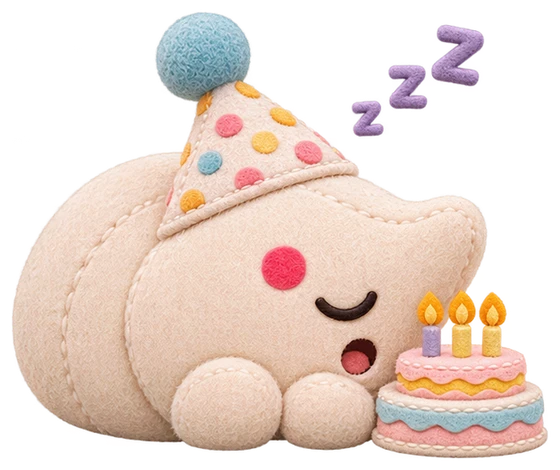
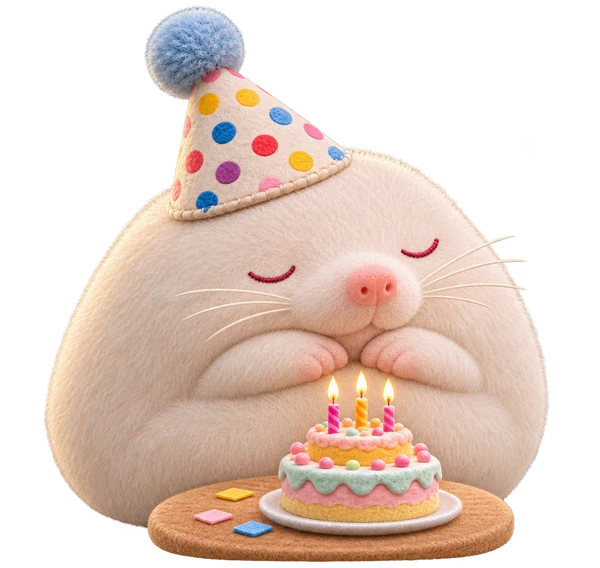
Redraw Olivia and align Sean encounter glow to her plush eye

diff --git a/src/character-fx.js b/src/character-fx.js
@@ -69,7 +69,7 @@ function layers(id) {
   if(id==='eden') extra += `${prop('crown','mfx-crown mfx-travel')}<div class="mfx-gold-aura"></div>`;
   if(id==='ian') extra += `${prop('flag','mfx-flag')}${prop('calculator','mfx-calculator mfx-travel')}<span class="mfx-roar" aria-hidden="true">으아아!</span>`;
   if(id==='kade') extra += `${prop('bone','mfx-bone mfx-swing')}${prop('shield','mfx-guard mfx-grow')}<span class="mfx-star-eyes">✴ ✴</span>`;
-  if(id==='olivia') extra += `${prop('cake','mfx-cake mfx-travel')}${prop('heart','mfx-hearts mfx-travel')}<span class="mfx-star-eyes">✴ ✴</span>`;
+  if(id==='olivia') extra += `${prop('cake','mfx-cake mfx-travel')}${prop('heart','mfx-hearts mfx-travel')}`;
   if(id==='sally') extra += `${pose('attack','sally-swing')}${pose('special','sally-drop')}${prop('hammer','mfx-sally-hammer mfx-swing')}${prop('diamond','mfx-sally-diamond mfx-drop')}`;
   if(id==='aiden') extra += `${pose('attack','aiden-bubbles')}${pose('special','aiden-summon')}<span class="mfx-aiden-flowers" aria-hidden="true">✿ ✿ ✿</span><span class="mfx-aiden-bubbles" aria-hidden="true">◌ ○ ◯ ○</span><img class="mfx-aiden-jellyfish" src="../assets/fx/aiden-jellyfish.webp" alt=""><span class="mfx-aiden-shock" aria-hidden="true">⚡ ✦ ⚡</span>`;
   if(id==='hailey') extra += `${prop('apple','mfx-silver-apple')}${prop('glasses','mfx-glasses')}${prop('apple','mfx-apple-throw mfx-travel')}${prop('tree','mfx-apple-tree mfx-grow')}`;
@@ -80,10 +80,14 @@ function layers(id) {
   if(!extra) extra += '<div class="mfx-magic" aria-hidden="true">✧ ✨ ✧</div>';
   return `<div class="mfx-layers" aria-hidden="true">${extra}<span class="mfx-attack-swish"></span></div>`;
 }
+function oliviaPose(mode, opponent) {
+  if (mode === 'idle') return 'nap';
+  return opponent === '션' ? 'sean' : opponent === '키미' ? 'kimi' : 'portrait';
+}
 export function createScene(mole, { mode = 'idle', opponentName = '', compact = false }={}) {
   const id = CHARACTER_FX[mole?.id] ? mole.id : 'generic';
   const fx=CHARACTER_FX[id];
-  const imgSrc = characterPortrait(mole);
+  const imgSrc = id === 'olivia' ? `assets/cards/olivia-${oliviaPose(mode, opponentName)}.webp` : characterPortrait(mole);
   const specialOpponent = opponentName === '션' ? 'sean' : opponentName === '키미' ? 'kimi' : startsWithTie(opponentName) ? 'tie' : 'other';
   return `<div class="mfx-scene mfx-${id} mfx-phase-${mode}${compact?' mfx-compact':''}" data-opponent="${specialOpponent}" style="--mfx-accent:${fx?.accent || '#e9b368'}">
       <div class="mfx-floor"></div><div class="mfx-sparkles" aria-hidden="true">✦　✧　✦</div>
@@ -120,6 +124,9 @@ export function animateCharacter(mole, {
   const mode = animationModeFor(mole, {phase, opponentName, diceSum, doubles, previousDiceSum});
   root.querySelector('.mfx-layers')?.remove();
   root.insertAdjacentHTML('beforeend',layers(mole.id));
+  const actor = root.querySelector(':scope > .mfx-base-pose');
+  const restingSrc = actor?.src;
+  if (actor && mole.id === 'olivia') actor.src = `../assets/cards/olivia-${oliviaPose(mode, opponentName)}.webp`;
   root.style.setProperty('--mfx-duration', `${duration}ms`);
   root.classList.remove('mfx-phase-idle', 'mfx-phase-attack', 'mfx-phase-special');
   root.dataset.opponent = opponentName === '션' ? 'sean' : opponentName === '키미' ? 'kimi'
@@ -127,6 +134,7 @@ export function animateCharacter(mole, {
   void root.offsetWidth;
   root.classList.add('mfx-phase-' + mode);
   return () => {
+    if (actor && mole.id === 'olivia') actor.src = restingSrc;
     mountIdleLayers(root, mole.id);
     root.classList.remove('mfx-phase-attack', 'mfx-phase-special');
     root.classList.add('mfx-phase-idle');

diff --git a/src/character-dictionary.js b/src/character-dictionary.js
@@ -23,7 +23,7 @@ function compose(id, state, names) {
 
 const oliviaMatchups = [['kimi','키미','분홍 하트 연기'],['sean','션','거대화·별빛 안광']];
 function matchupArt(key, label, effect) {
- return `<span class="mfx-olivia-matchup">
+ return `<span class="mfx-olivia-matchup">${paintedBackdrop('olivia',key==='kimi'?'attack':'special')}
   <img src="../assets/cards/olivia-${key}.webp" alt="${label} 상대 · ${effect}">
   <b>vs ${label} · ${effect}</b></span>`;
 }
@@ -62,7 +62,7 @@ function renderMode() {
  if (mount) {
   const previewMode = selected.id==='olivia' && mode!=='idle' ? 'special' : mode;
   mount.innerHTML=createScene(selected,{mode:previewMode,opponentName:opponent});
-  mount.firstElementChild.insertAdjacentHTML('afterbegin', paintedBackdrop(selected.id,mode));
+  mount.firstElementChild.insertAdjacentHTML('afterbegin', paintedBackdrop(selected.id,selected.id==='olivia' && mode!=='idle' ? (opponent==='션'?'special':'attack') : mode));
  }
  const title=$('#mfx-state-caption');if(title)title.textContent=`${modes[mode]} · ${f[mode]||''}`;
  layer.querySelectorAll('.mfx-d3-scene').forEach(button =>

diff --git a/src/battle-art.js b/src/battle-art.js
@@ -4,6 +4,7 @@ const PLUSH_MOLES = new Set(['header', 'kimi', 'harper', 'eden', 'hailey', 'andr
 const UPDATED_ART = new Set(['z', 'l', 'header', 'henry', 'sally', 'andrew', 'aiden']);
 
 export function battleArt(mole) {
+  if (mole.id === 'olivia') return '../assets/cards/olivia-portrait.webp';
   if (mole.id === 'jacob') return '../assets/cards/jacob-portrait.webp';
   if (mole.id === 'harper') return '../assets/cards/harper-typing.webp';
   if (UPDATED_ART.has(mole.id)) return `../assets/fx/plush/${mole.id}-idle.webp`;

diff --git a/src/character-dictionary.css b/src/character-dictionary.css
@@ -247,7 +247,7 @@
 }
 .mfx-keycap-cloud i:nth-child(2) { transform: rotate(26deg) translateY(-6px); }
 .mfx-olivia-matchup { position: relative; min-width: 0; min-height: 0; overflow: hidden; }
-.mfx-olivia-matchup img { display: block; width: 100%; height: 100%; object-fit: cover; object-position: center 52%; }
+.mfx-olivia-matchup img { position:relative; display: block; width: 100%; height: 100%; object-fit: contain; object-position: center bottom; }
 .mfx-olivia-matchup b {
   position: absolute;
   right: 0;
